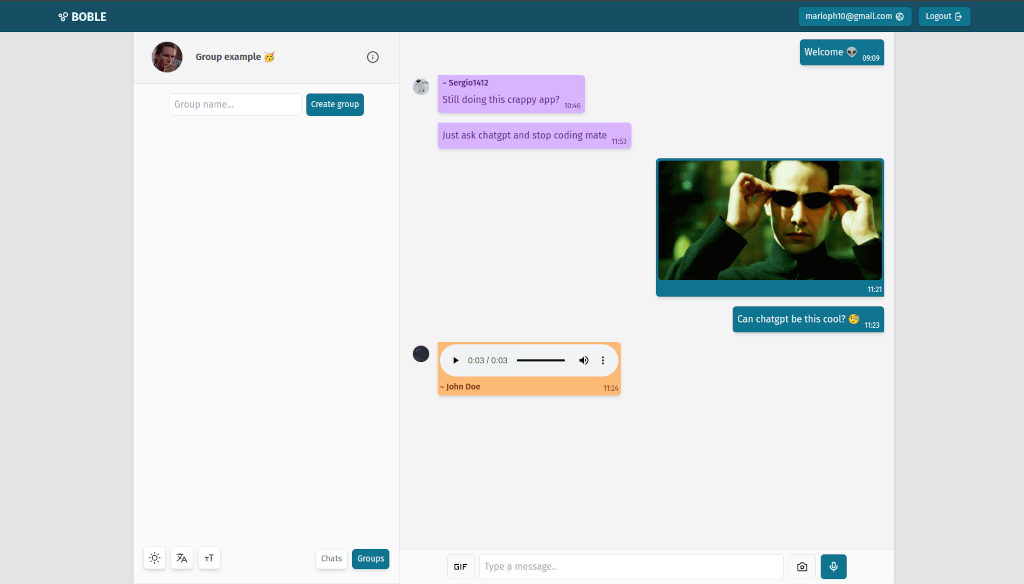
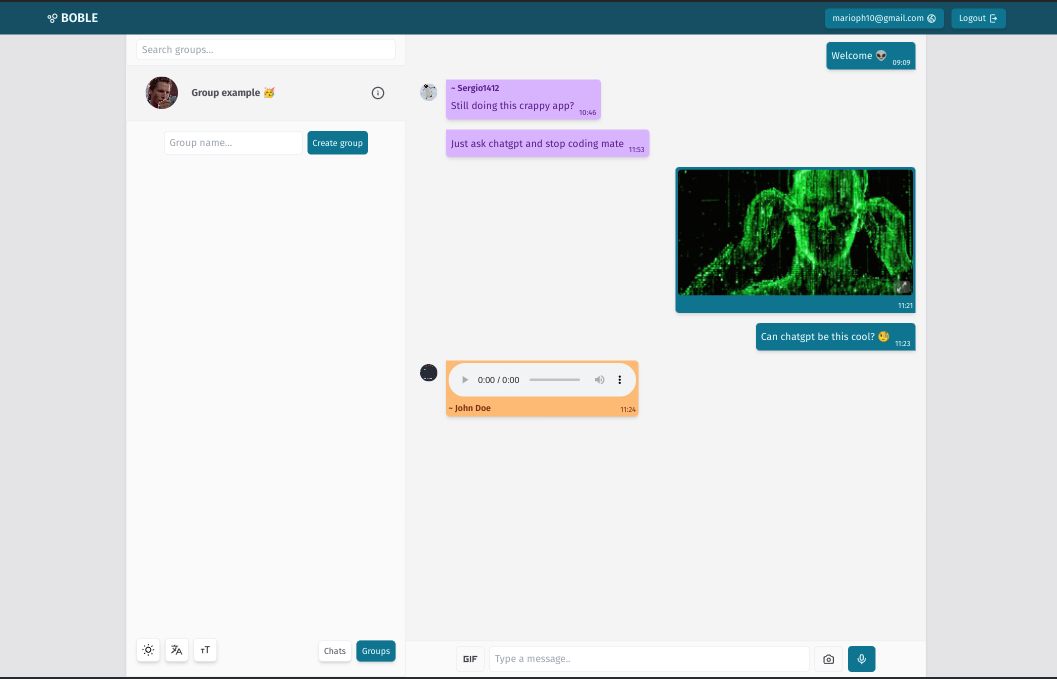
Updated repo doc screenshots

diff --git a/src/components/Chats/ChatList/ChatList.tsx b/src/components/Chats/ChatList/ChatList.tsx
@@ -46,8 +46,9 @@ export default function ChatList({ chatId }: Props) {
       c.user2?.email.toLowerCase().includes(search.toLowerCase())
   )
 
-  const handleChange = (e: React.ChangeEvent<HTMLInputElement>) =>
+  const handleChange = (e: React.ChangeEvent<HTMLInputElement>) => {
     setSearch(capitalize(e.target.value))
+  }
 
   if (isLoading) {
     return (
@@ -83,7 +84,7 @@ export default function ChatList({ chatId }: Props) {
         onChange={handleChange}
         type="text"
         placeholder={t('chats.search.placeholder')}
-        className="border rounded-md px-2 py-1 max-w-full mx-4 mt-2.5 mb-2 "
+        className="border rounded-md px-2 py-1 max-w-full mx-4 mt-2.5 mb-2 dark:bg-zinc-700 dark:border-zinc-600"
         autoComplete="off"
       />
       <ul className="flex flex-col overflow-y-auto bg-zinc-50 dark:bg-zinc-800">

diff --git a/src/components/Groups/GroupList/GroupList.tsx b/src/components/Groups/GroupList/GroupList.tsx
@@ -42,8 +42,9 @@ export default function GroupList({ groupId }: Props) {
     g.name?.toLowerCase().includes(search.toLowerCase())
   )
 
-  const handleChange = (e: React.ChangeEvent<HTMLInputElement>) =>
+  const handleChange = (e: React.ChangeEvent<HTMLInputElement>) => {
     setSearch(capitalize(e.target.value))
+  }
 
   if (isLoading) {
     return (
@@ -79,7 +80,7 @@ export default function GroupList({ groupId }: Props) {
         onChange={handleChange}
         type="text"
         placeholder={t('groups.search.placeholder')}
-        className="border rounded-md px-2 py-1 max-w-full mx-4 mt-2.5 mb-2 "
+        className="border rounded-md px-2 py-1 max-w-full mx-4 mt-2.5 mb-2 dark:bg-zinc-700 dark:border-zinc-600"
         autoComplete="off"
       />
       <ul className="flex flex-col overflow-y-auto bg-zinc-50 dark:bg-zinc-800">

diff --git a/README.md b/README.md
@@ -70,8 +70,6 @@ If you have any suggestions or encounter any problems, feel free to **report** t
 
 **QR Code:** [React-qr-code](https://www.npmjs.com/package/react-qr-code)
 
-**Audio Recorder:** [React-audio-voice-recorder](https://github.com/samhirtarif/react-audio-recorder/)
-
 **Resize Observer:** [Use-resize-observer](https://github.com/ZeeCoder/use-resize-observer)
 
 ## 📡 External API's
